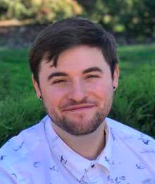
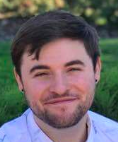
adding to team page

diff --git a/Front-end/mealhelper/src/components/landingpage/landingpage.js b/Front-end/mealhelper/src/components/landingpage/landingpage.js
@@ -17,6 +17,7 @@ import Stefano from "../../img/stefano100.jpg";
 import Simon from "../../img/simon100.jpg";
 import Casey from "../../img/casey100.png";
 import Patrick from "../../img/patrick100.png";
+import Joseph from "../../img/joseph100.jpg";
 
 class Landingpage extends Component {
   componentDidMount = () => {
@@ -311,7 +312,7 @@ class Landingpage extends Component {
               <div className="team-column">
                 <div className="card">
                   <img
-                    src="https://via.placeholder.com/100"
+                    src={Joseph}
                     alt="Team Member"
                     className="team-member"
                     style={{ width: 100 }}
